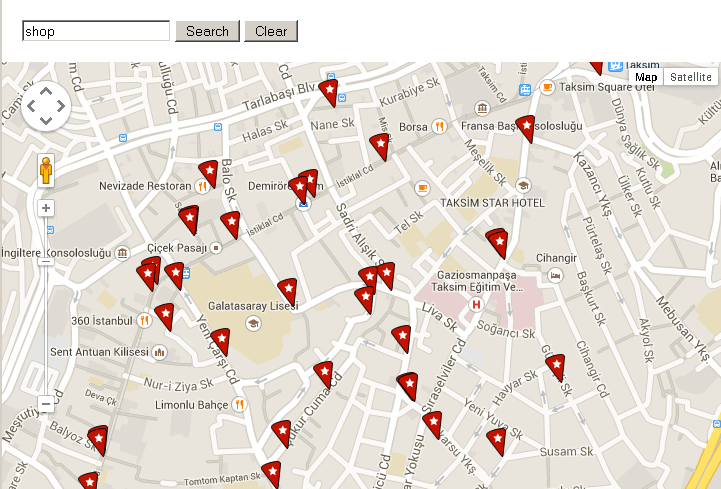
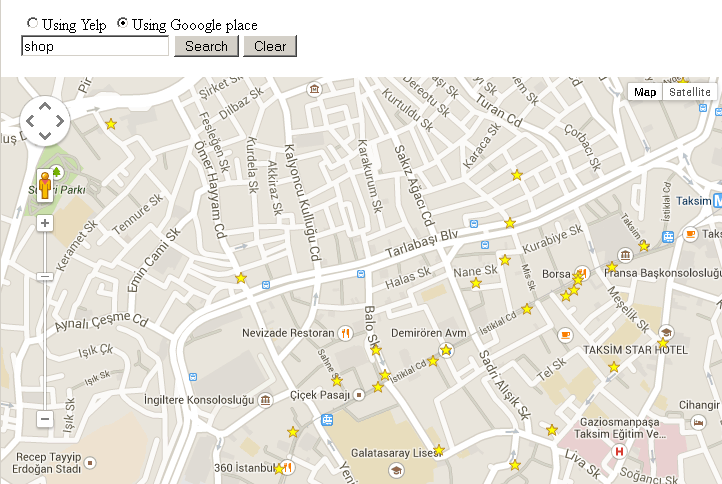
Support Google places API.

diff --git a/web/js/script.js b/web/js/script.js
@@ -3,9 +3,10 @@
  * @author Araz J <mjafaripur@yahoo.com>
  */
 var yelp_obj = null;
-var yelp_marker = new Array();
-var yelp_infowindow;
+var markerArray = new Array();
+var infoWindow;
 var map;
+var google_place_service;
 /**
  * Initialize Google map
  * @returns {undefined}
@@ -17,21 +18,28 @@ function initialize() {
         mapTypeId: google.maps.MapTypeId.ROADMAP
     };
     map = new google.maps.Map(document.getElementById('map-canvas'), mapOptions);
-    yelp_infowindow = new google.maps.InfoWindow();
+    infoWindow = new google.maps.InfoWindow();
+    google_place_service = new google.maps.places.PlacesService(map);
 }
 google.maps.event.addDomListener(window, 'load', initialize);
 /**
  * Search and ajax request to give a response from Yelp and add them into map
  * @returns {Boolean}
  */
-function yelp_search() {
-    if (map.getZoom() < 9) {
-        $('#yelp_message').removeClass().addClass('alert alert-warning').html('Too zoom out!');
+function search() {
+    clearMap();
+    var term = $("#term").val();
+    var method = $('input[name=method]:checked', '#myForm').val();
+    if (method == '1') {
+        var request = {
+            bounds: map.getBounds(),
+            keyword: term
+        };
+        google_place_service.radarSearch(request, callbackGooglePlaces);
         return false;
     }
+
     $('#map_loading').show();
-    $('#yelp_message').removeClass().html('');
-    var term = $("#yelp_term").val();
     if (yelp_obj !== null)
         yelp_obj.abort();
     var bounds = map.getBounds();
@@ -51,9 +59,8 @@ function yelp_search() {
         dataType: 'JSON',
         success: function (data)
         {
-            yelp_clear_map();
             for (var i = 0; i < data.length; i++) {
-                createMarker(data[i], data[i].latitude, data[i].longitude);
+                createYelpMarker(data[i], data[i].latitude, data[i].longitude);
             }
         },
         complete: function () {
@@ -63,24 +70,109 @@ function yelp_search() {
     });
     return false;
 }
+
 /**
- * create marker for each of businesses
- * @param array biz
- * @param double latitude
- * @param double longitude
+ * This is callback for google place
+ * @param array results
+ * @param string status
  * @returns {undefined}
  */
-function createMarker(biz, latitude, longitude) {
+function callbackGooglePlaces(results, status) {
+    if (status != google.maps.places.PlacesServiceStatus.OK) {
+        alert(status);
+        return;
+    }
+    for (var i = 0, result; result = results[i]; i++) {
+        createPlacesMarker(result);
+    }
+}
+/**
+ * create marker for each of businesses in google place method
+ * @param array place
+ * @returns {undefined}
+ */
+function createPlacesMarker(place) {
     var marker = new google.maps.Marker({
-        position: new google.maps.LatLng(latitude, longitude),
         map: map,
-        //icon: yelp_marker_image,
+        position: place.geometry.location,
         icon: {
             // Star
             path: 'M 0,-24 6,-7 24,-7 10,4 15,21 0,11 -15,21 -10,4 -24,-7 -6,-7 z',
             fillColor: '#ffff00',
             fillOpacity: 1,
-            scale: 1/4,
+            scale: 1 / 4,
+            strokeColor: '#bd8d2c',
+            strokeWeight: 1
+        }
+    });
+    google.maps.event.addListener(marker, 'click', function () {
+        google_place_service.getDetails(place, function (result, status) {
+            if (status != google.maps.places.PlacesServiceStatus.OK) {
+                alert(status);
+                return;
+            }
+            infoWindow.close();
+            infoWindow.setContent(generateGooglePlacesInfoWindowHtml(result));
+            infoWindow.open(map, marker);
+        });
+    });
+    markerArray.push(marker);
+}
+/**
+ * Generate infor windows to shows when click on a marker in google place method
+ * @param array biz
+ * @returns {String}
+ */
+function generateGooglePlacesInfoWindowHtml(biz) {
+    var categories = '';
+    var image_url = biz.icon;
+    var text = '<div class="marker">';
+    if (typeof biz.photos != 'undefined') {
+        image_url = biz.photos[0].getUrl({'maxWidth': 100, 'maxHeight': 100});
+    }
+    text += '<img class="businessimage" src="' + image_url + '"/><br/>';
+    text += '<div class="businessinfo">';
+    text += '<a href="' + biz.url + '" target="_blank">' + biz.name + '</a><br/>';
+    if (typeof biz.rating != 'undefined') {
+        text += biz.rating + '&nbsp;Rating<br/>';
+    }
+    if (typeof biz.reviews != 'undefined') {
+        text += biz.reviews.length + '&nbsp;Review<br/>';
+    }
+    for (var i = 0; i < biz.types.length; i++) {
+        if (categories !== '')
+            categories += ', ';
+        categories += biz.types[i];
+    }
+    text += categories + '<br/>';
+    text += biz.formatted_address + '<br/>';
+    if (typeof biz.international_phone_number != 'undefined') {
+        text += biz.international_phone_number + '<br/>';
+    }
+    if (typeof biz.website != 'undefined') {
+        text += '<a href="' + biz.website + '" target="_blank">' + biz.website + '</a>';
+    }
+    text += '</div></div>';
+    return text;
+}
+
+/**
+ * create marker for each of businesses in yelp method
+ * @param array biz
+ * @param double latitude
+ * @param double longitude
+ * @returns {undefined}
+ */
+function createYelpMarker(biz, latitude, longitude) {
+    var marker = new google.maps.Marker({
+        position: new google.maps.LatLng(latitude, longitude),
+        map: map,
+        icon: {
+            // Star
+            path: 'M 0,-24 6,-7 24,-7 10,4 15,21 0,11 -15,21 -10,4 -24,-7 -6,-7 z',
+            fillColor: '#ffff00',
+            fillOpacity: 1,
+            scale: 1 / 4,
             strokeColor: '#bd8d2c',
             strokeWeight: 1
         },
@@ -89,19 +181,19 @@ function createMarker(biz, latitude, longitude) {
 
     google.maps.event.addListener(marker, "click", function (event)
     {
-        yelp_infowindow.close();
-        yelp_infowindow.setContent(generateInfoWindowHtml(biz));
-        yelp_infowindow.open(map, this);
+        infoWindow.close();
+        infoWindow.setContent(generateYelpInfoWindowHtml(biz));
+        infoWindow.open(map, this);
     });
 
-    yelp_marker.push(marker);
+    markerArray.push(marker);
 }
 /**
- * Generate infor windows to shows when click on a marker
+ * Generate infor windows to shows when click on a marker in yelp method
  * @param array biz
  * @returns {String}
  */
-function generateInfoWindowHtml(biz) {
+function generateYelpInfoWindowHtml(biz) {
     var text = '<div class="marker">';
     text += '<img class="businessimage" src="' + biz.image_url + '"/><br/>';
     text += '<div class="businessinfo">';
@@ -121,12 +213,12 @@ function generateInfoWindowHtml(biz) {
  * clear map existing businesses marker
  * @returns {undefined}
  */
-function yelp_clear_map() {
-    if (yelp_marker)
+function clearMap() {
+    if (markerArray)
     {
-        for (var i = 0; i < yelp_marker.length; i++) {
-            yelp_marker[i].setMap(null);
+        for (var i = 0; i < markerArray.length; i++) {
+            markerArray[i].setMap(null);
         }
-        yelp_marker.length = 0;
+        markerArray.length = 0;
     }
 }

diff --git a/index.php b/index.php
@@ -6,13 +6,17 @@
         <meta name="viewport" content="initial-scale=1.0, user-scalable=no">
         <link href="web/css/style.css" rel="stylesheet">
         <script src="//cdn.jsdelivr.net/jquery/1.11.2/jquery.min.js" type="text/javascript"></script>        
-        <script src="https://maps.googleapis.com/maps/api/js?v=3.exp"></script>
+        <script src="https://maps.googleapis.com/maps/api/js?v=3.exp&libraries=places"></script>
     </head>
     <body>
-        <form action="#" onsubmit="return yelp_search();" style="margin:20px;">
-            <input type="text" id="yelp_term" placeholder="Restaurants, Sport,...">
+        <form id="myForm" action="#" onsubmit="return search();" style="margin:20px;">
+			<div>
+				<input id="yelp_method" type="radio" name="method" value="0" checked><label for="yelp_method">Using Yelp</label>
+				<input id="google_place_method" type="radio" name="method" value="1"><label for="google_place_method">Using Gooogle place</label>
+			</div>
+            <input type="text" id="term" placeholder="Restaurants, Sport,...">
             <button id="yelp_filter" type="submit" class="btn btn-primary">Search</button>
-            <button id="yelp_clear_map_btn" type="button" onclick="yelp_clear_map();">Clear</button>
+            <button id="yelp_clear_map_btn" type="button" onclick="clearMap();">Clear</button>
             <div id="yelp_message"></div>
         </form>
         <div id="map-canvas"></div>
